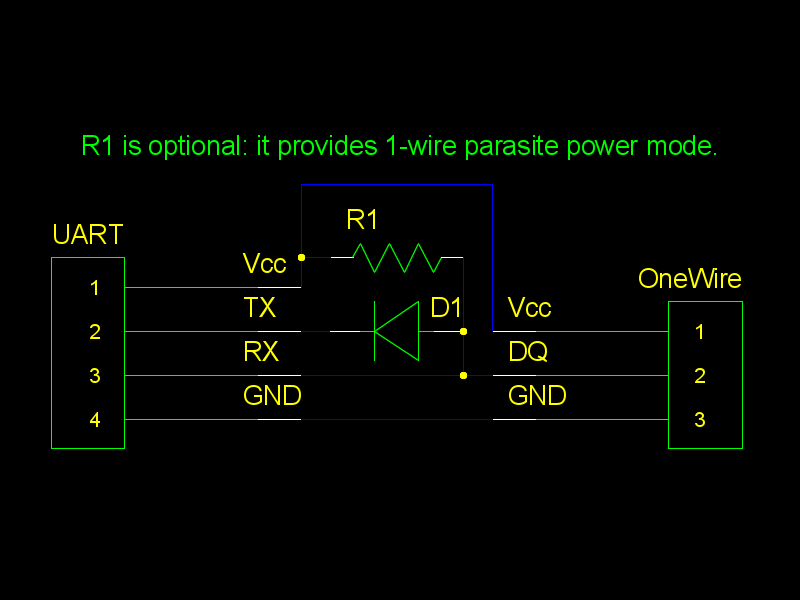
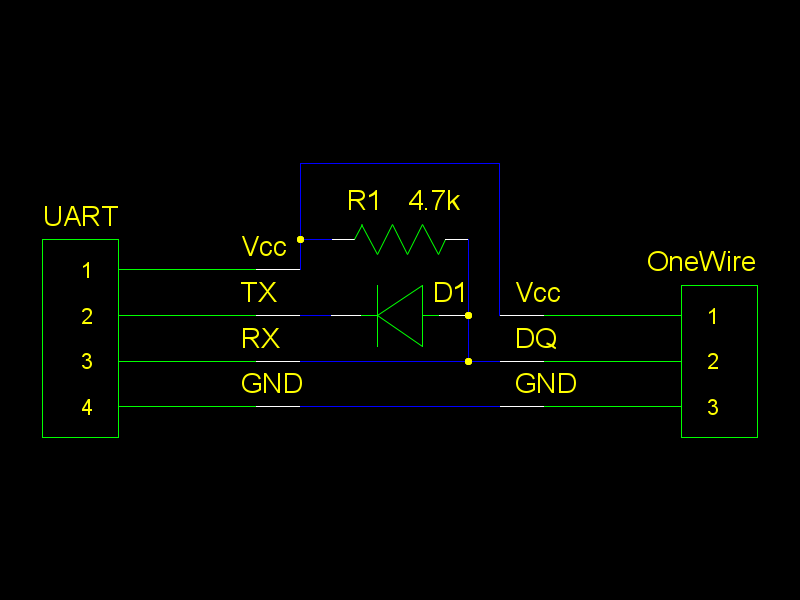
update docs

diff --git a/README.md b/README.md
@@ -6,7 +6,9 @@ Using a UART to Implement a 1-Wire Bus Master
 
 [http://www.maximintegrated.com/app-notes/index.mvp/id/214](http://www.maximintegrated.com/app-notes/index.mvp/id/214 "Using a UART to Implement a 1-Wire Bus Master")
 
-Please also see this post from vbranimir: [https://haklabos.wordpress.com/projekti/digitemp/](https://haklabos.wordpress.com/projekti/digitemp/)
+Please also see this post from *vbranimir*: [https://haklabos.wordpress.com/projekti/digitemp/](https://haklabos.wordpress.com/projekti/digitemp/)
+
+NOTE: parasitic power mode is not supported.
 
 ## License
 
@@ -19,11 +21,12 @@ The original version mentioned in Maxim's application note is shown as below.
 
 ![Schematics](docs/pp2od_tt.png "Original version")
 
-Also a simplified version is available:
+A simplified version is available:
 
 ![Schematics](docs/pp2od_rd.png "Simplified version")
 
-Resistors can vary from 200ohm to 20kohm. Transistors can be BJTs or MOSFETs.
+If you are sure your UART host has open-drain outputs, simply tie TX and RX together as mentioned by *vbranimir*.
+Transistors can either be BJTs or MOSFETs.
 The diode used in the simplified version should be fast and has a low forwarding voltage.
 1N4148 is known to work.
 
@@ -54,14 +57,15 @@ Here are a few models that are tested. Many of these are prices under $5:
 ### Software
 
 Type `make` to get `lsow` and `digitemp_evil` compiled.
-To build for Windows under Linux, try installing `mingw` and then type `make OS=Windows_NT CC=i686-w64-mingw32-gcc-posix`.
-Remember to `make clean` before and after switching targets.
+To build for Windows under Linux, try installing `mingw-w64` and then type `make OS=Windows_NT CC=i686-w64-mingw32-gcc-posix`.
 
 lsow is a tool that list devices on a onewire bus connected to a USB to UART converter.
 Simply type something like `lsow /dev/ttyUSB0` (or something like `lsow COM0:` under Windows) and it will show device IDs found on the bus.
 
 digitemp\_evil is a demonstration program that reads temperature values from DS18S20/DS18B20/DS1822
 onewire digital temperature sensors. Type `digitemp_evil /dev/ttyUSB0` and read IDs and values.
-Sometimes after powering up DS18B20 will give something like 85°C, you will just need retry.
+It will wait for conversion to complete, which usually takes around 0.75 seconds.
 
 ![Terminal Output](docs/dte.png "digitemp\_evil's output")
+
+Alternatively you can use `digitemp_DS9097` in the `digitemp` package as mentioned by *vbranimir*.
